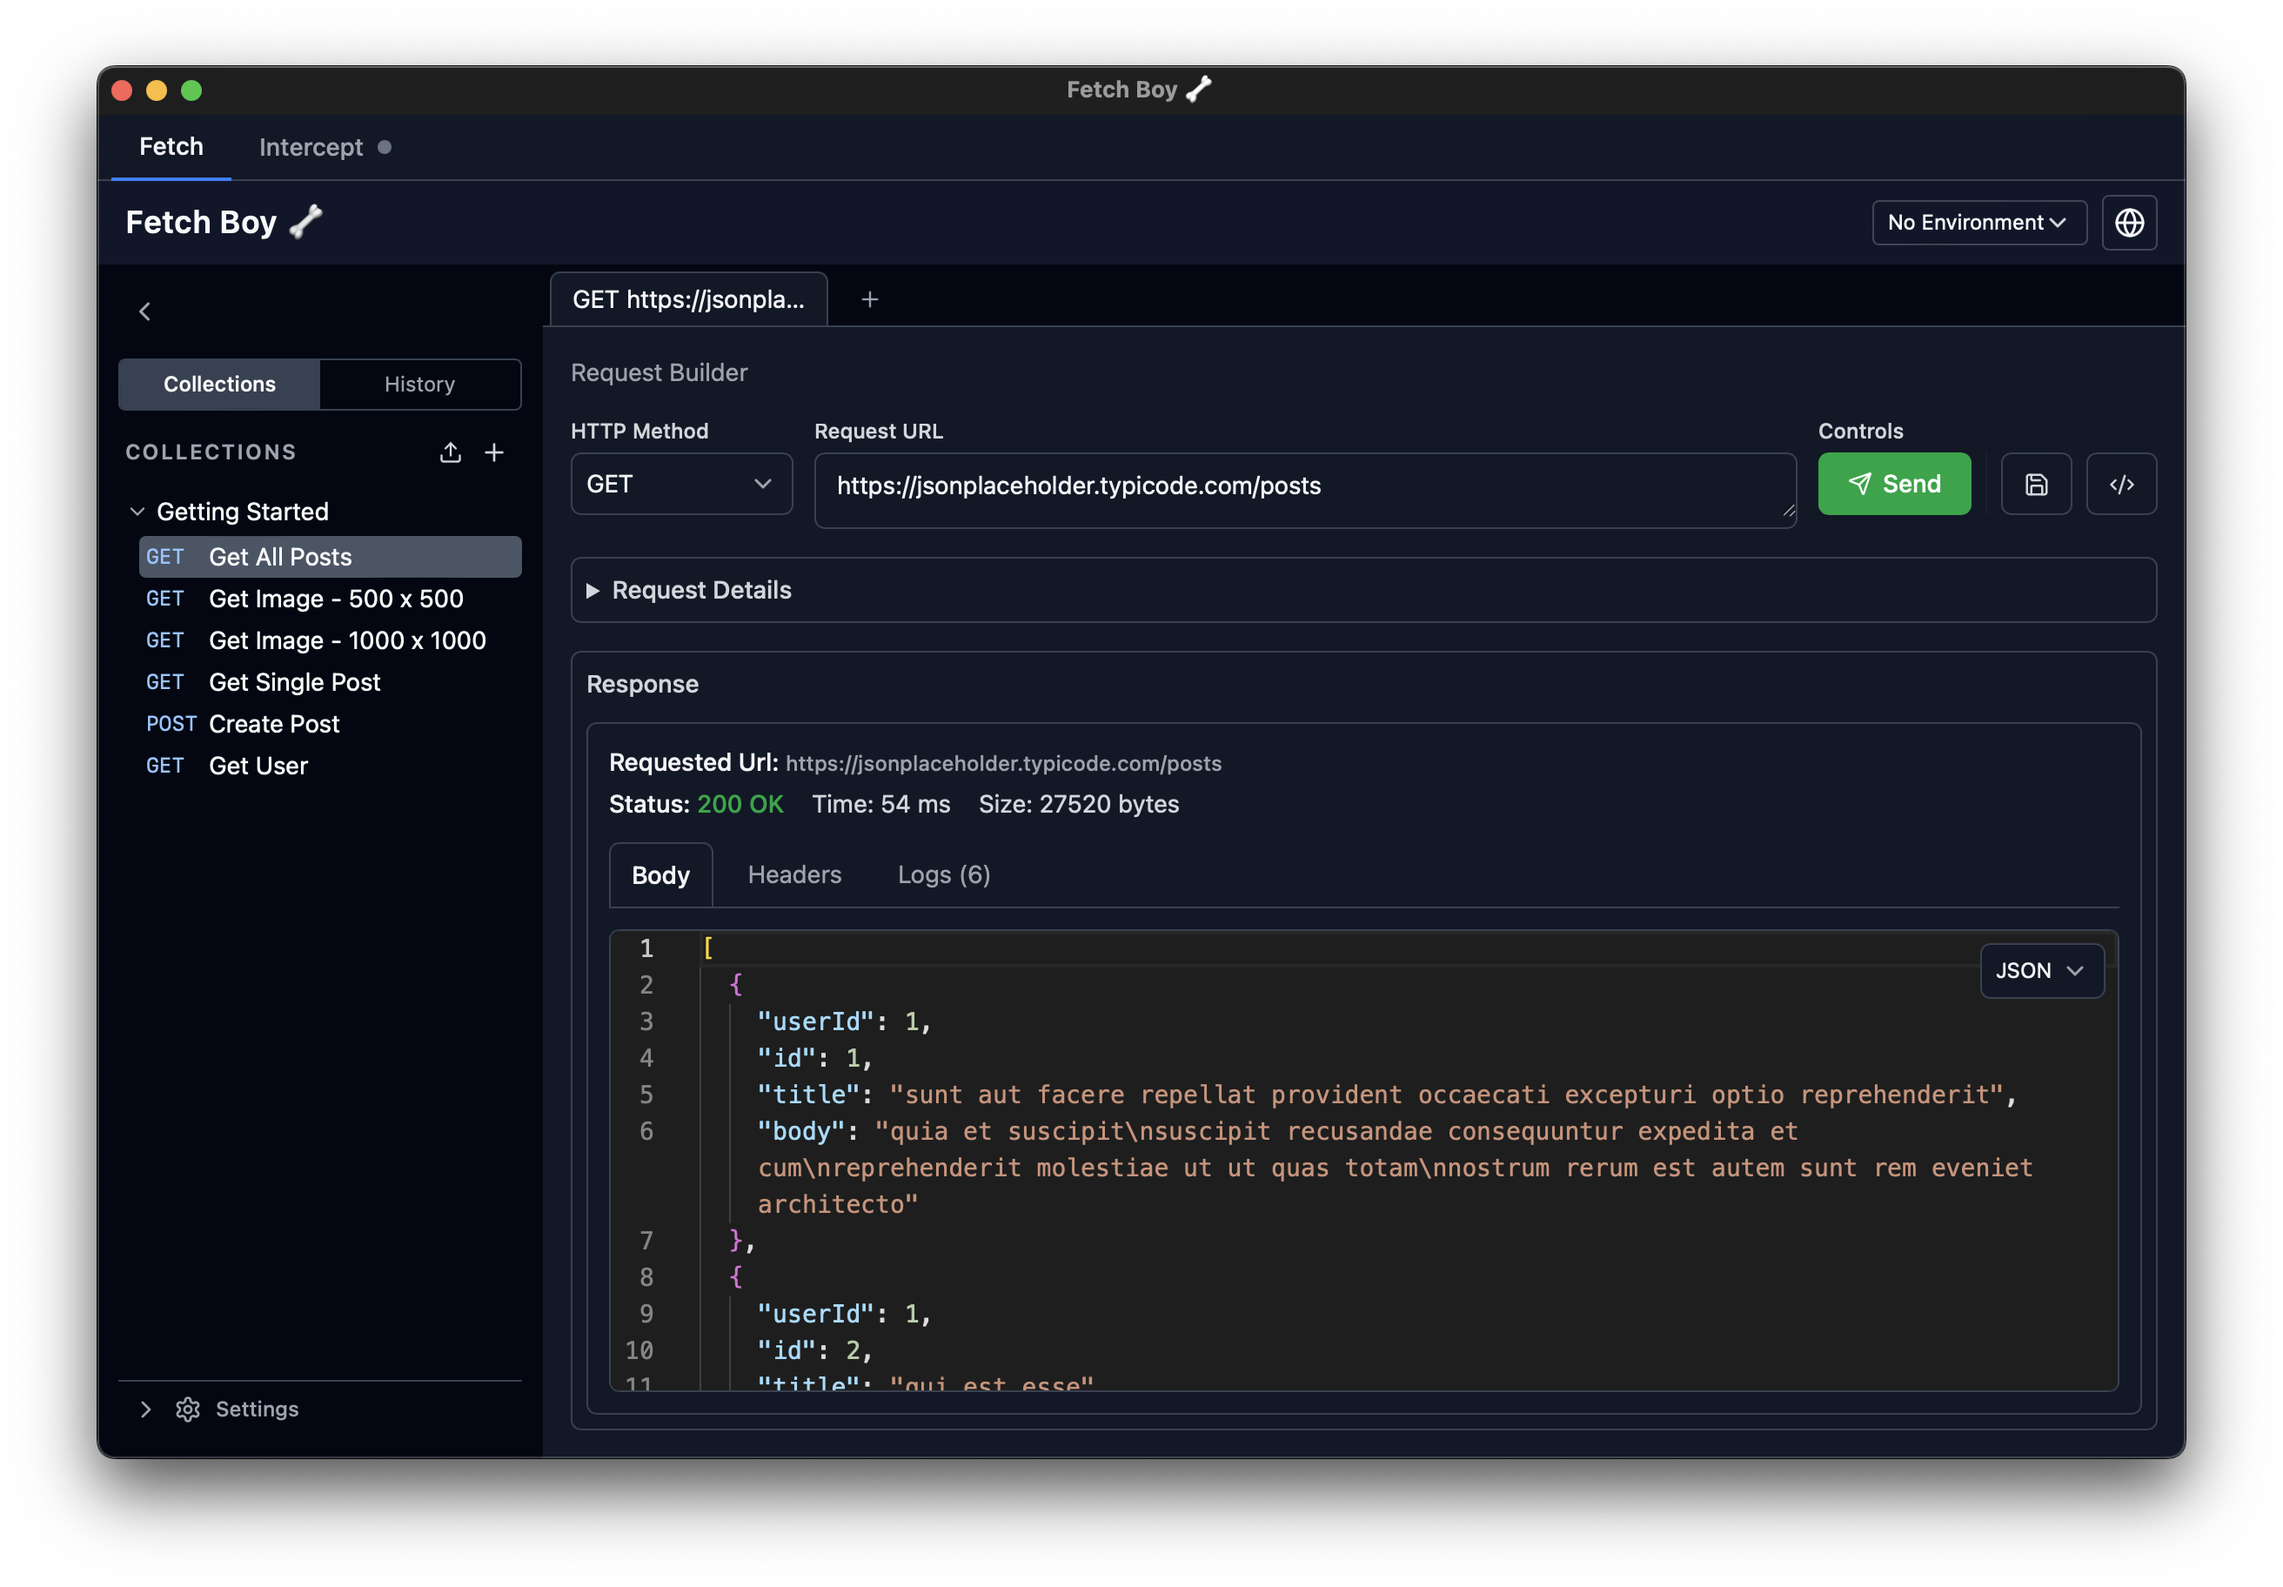
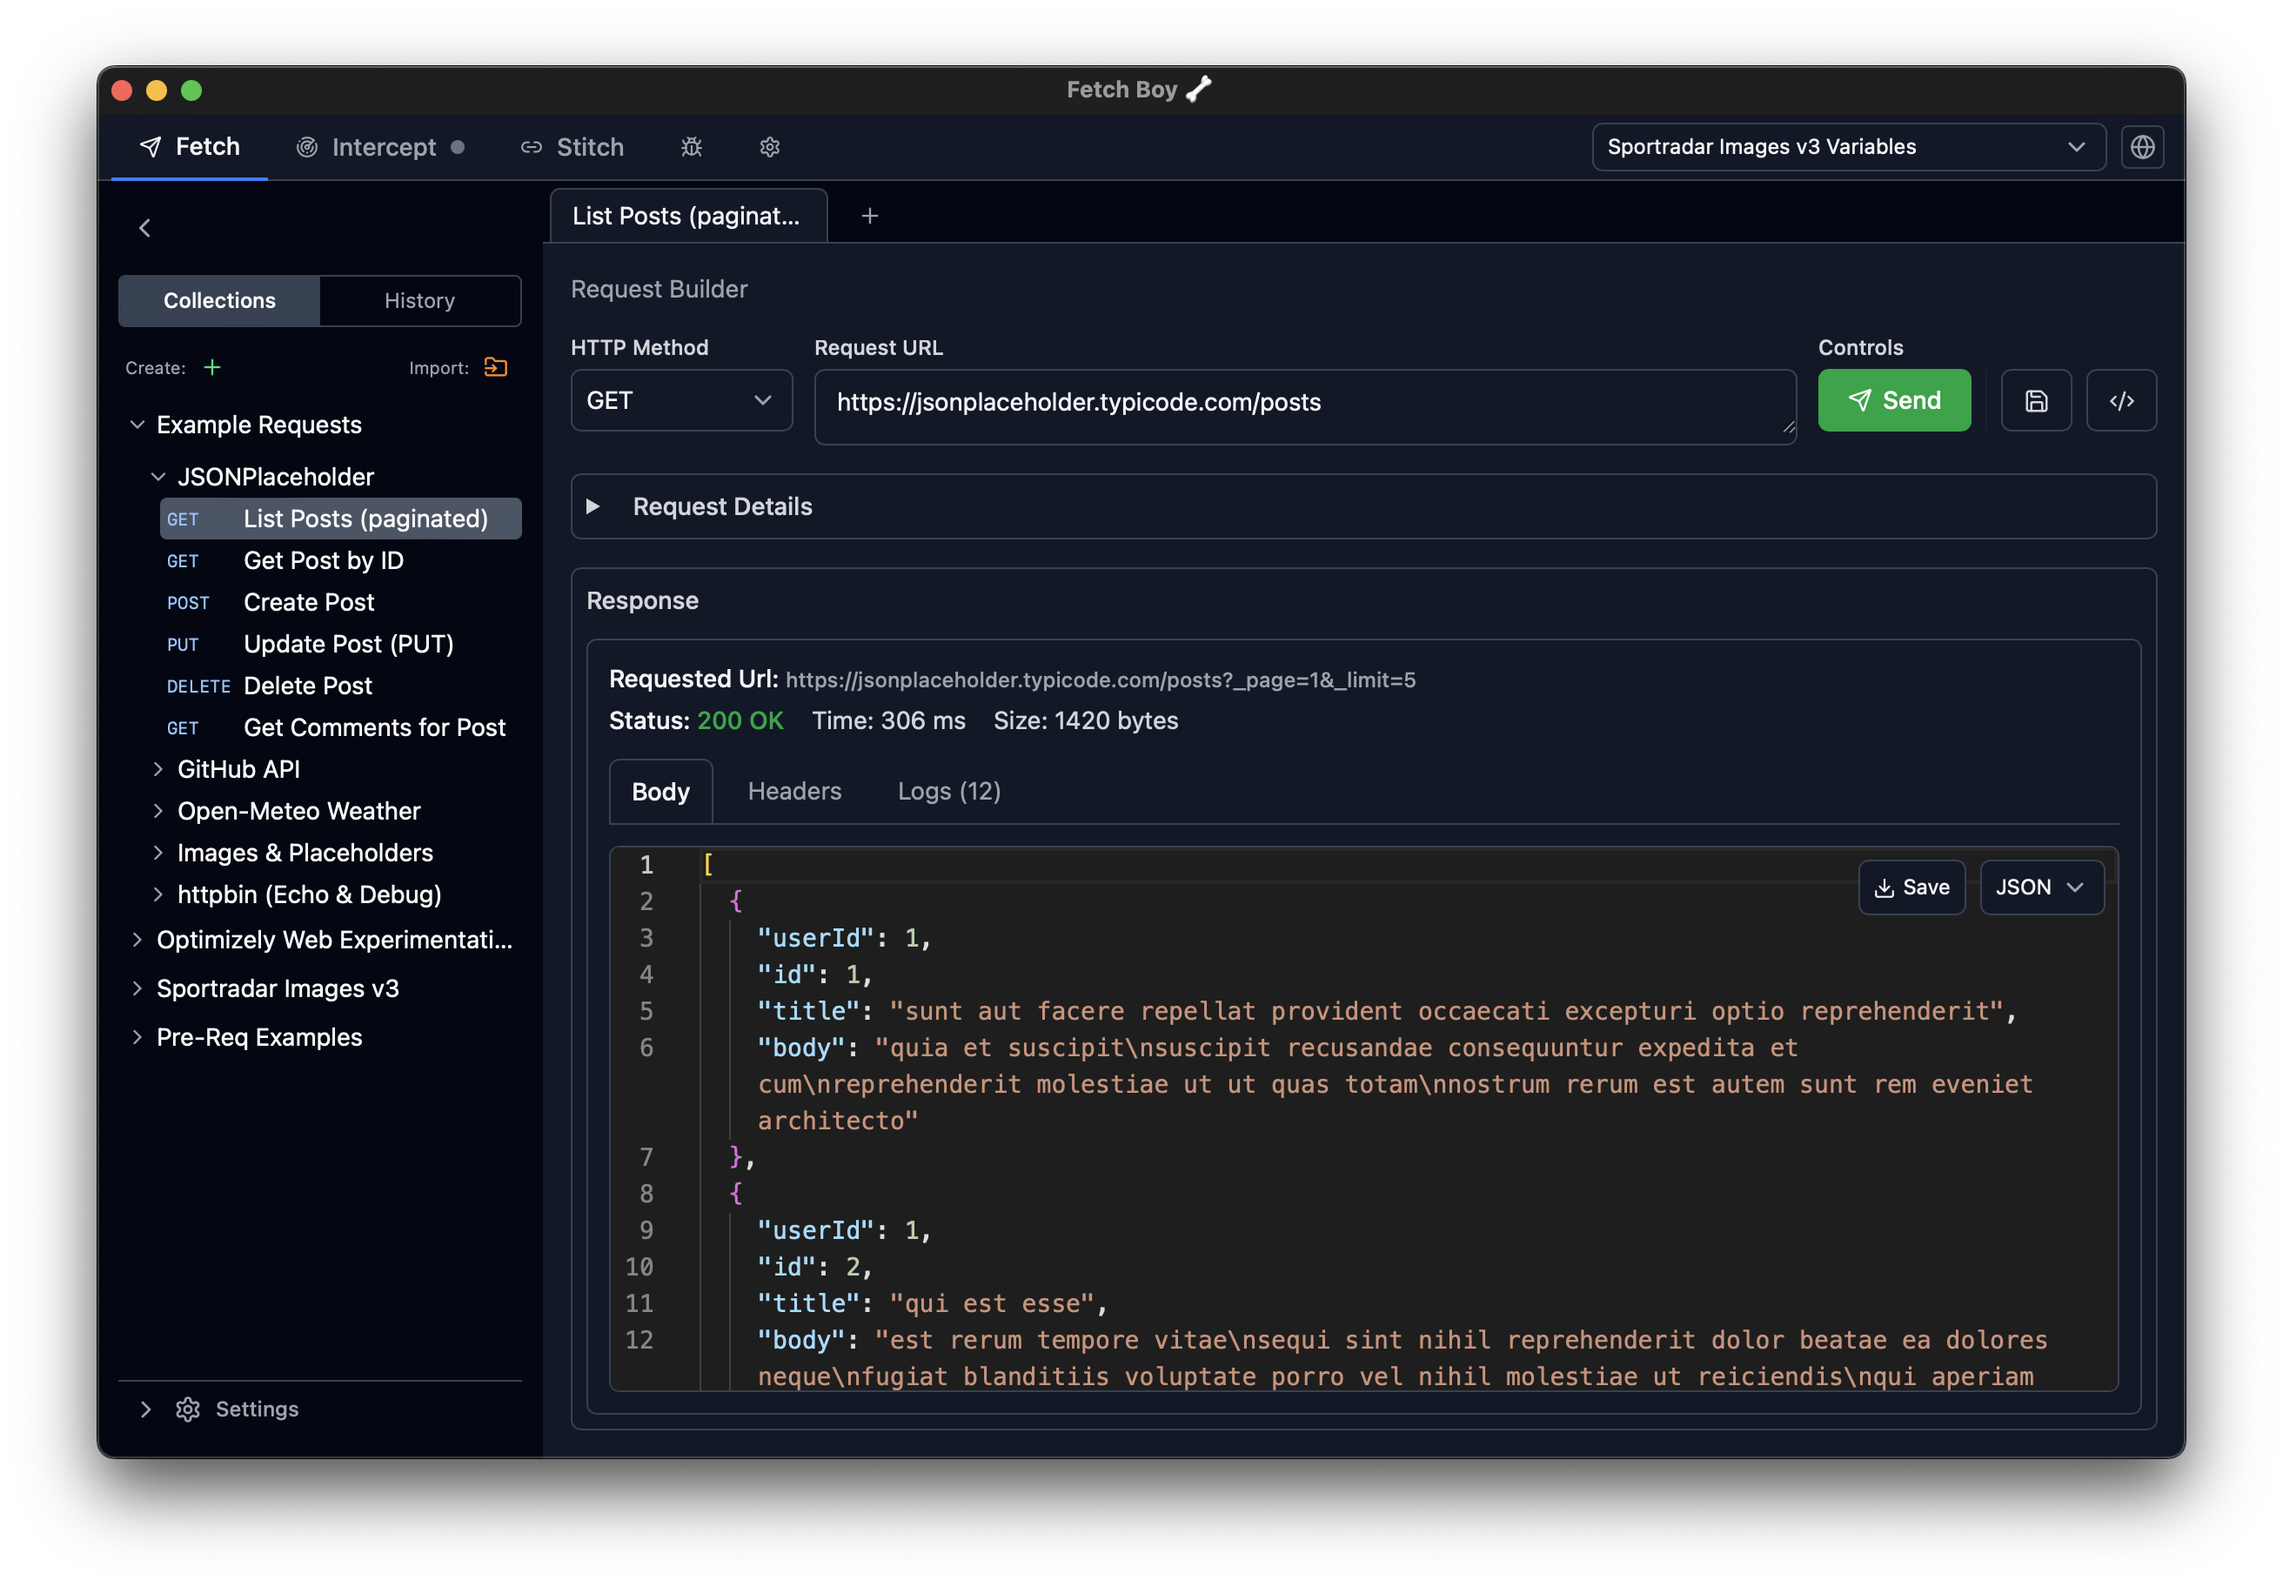
feat: readme and screenshot updates

diff --git a/README.md b/README.md
@@ -2,20 +2,23 @@
   <img src="./src-tauri/icons/fetch-boi-logo.svg" alt="Fetch Boy Logo" width="150px" height="150px" style="scale: 1.5;" />
 </p>
 
-<h1 align="center">Fetch Boy</h1>
-
 <table>
   <tr>
     <td>
-      <img src="screenshots/main.png" alt="Fetch Boy Main Interface" width="100%" />
+      <img src="screenshots/main.png" alt="Fetch Boy - Fetch Interface" width="100%" />
     </td>
     <td>
-      <img src="screenshots/main-2.png" alt="Fetch Boy Main Interface" width="100%" />
+      <img src="screenshots/main-2.png" alt="Fetch Boy - Intercept Interface" width="100%" />
+    </td>
+    <td>
+      <img src="screenshots/main-3.png" alt="Fetch Boy - Stitch Interface" width="100%" />
     </td>
   </tr>
 </table>
 
-A lightweight, cross-platform tool for building, intercepting, and debugging HTTP requests. Build and test APIs with a clean editor, intercept live traffic through a built-in MITM proxy, set breakpoints to inspect and modify requests in flight, and use mapping rules to rewrite URLs and mock responses.
+# Fetch Boy
+
+A lightweight, cross-platform tool for building, intercepting, and debugging HTTP requests. Build and test APIs with a clean editor, intercept live traffic through a built-in MITM proxy, set breakpoints to inspect and modify requests in flight, use mapping rules to rewrite URLs and mock responses, and compose multi-step workflows visually with Stitch.
 
 Runs entirely offline. No account required. All data stored locally.
 
@@ -61,14 +64,33 @@ Runs entirely offline. No account required. All data stored locally.
 - Rewrite request URLs, add or remove headers, and edit cookies
 - Override response bodies using the Monaco editor or serve a file from disk
 - Organize mappings into folders with drag-and-drop ordering
+- Auto-save changes to mapping rules with manual save fallback
 - Activity log sub-tab shows which mapping rules fired for each intercepted request
+
+### Stitch — Visual Request Chains
+
+- Compose multi-step flows on an infinite canvas by wiring nodes together
+- Node types include Request, JS Snippet, JSON Object, Sleep, Loop/forEach, Condition, Parallel + Merge, and Mapping Chain containers
+- Pipe response data between nodes — outputs flow as raw types with input key shape inference and type badges
+- Write inline JavaScript with a Monaco editor; console.log/warn/error is captured into the debug log
+- Iterate over arrays with loop containers that auto-layout their children and indent in the debug log
+- Branch on runtime conditions or fan out requests in parallel and merge their results
+- Replay any node in isolation to re-run a step without rebuilding its inputs
+- Node result preview with an Eye toggle; click to scroll to the corresponding debug log entry
+- Import existing saved requests into the canvas via a searchable palette
+- Organize chains into folders in a collapsible sidebar with auto-save
+- Run chains as a pre-request step, or bind one to a mapping rule so proxied traffic triggers it automatically
 
 ### User Experience & Productivity
 
 - Work in multiple tabs simultaneously with per-tab state isolation
 - Use keyboard shortcuts (Cmd/Ctrl+Enter to send, ? for shortcuts overlay)
 - Customize the application theme (light/dark/system)
-- Import and export collections and environments as JSON
+- Import and export collections and environments as JSON, with post-processing options for folder merge, flatten, and depth limiting
+- Keep Open checkbox keeps request editors open across tab switches
+- Scripts tab with script debug output for pre/post-request hooks
+- Template sidebar for dropping common request and node shapes into your work
+- i18n-ready UI with `t()` migration across the app
 - Guided onboarding tour on first launch covering Fetch and Intercept tabs
 - "What's New" modal on version update with full changelog
 - Splash screen startup animation
